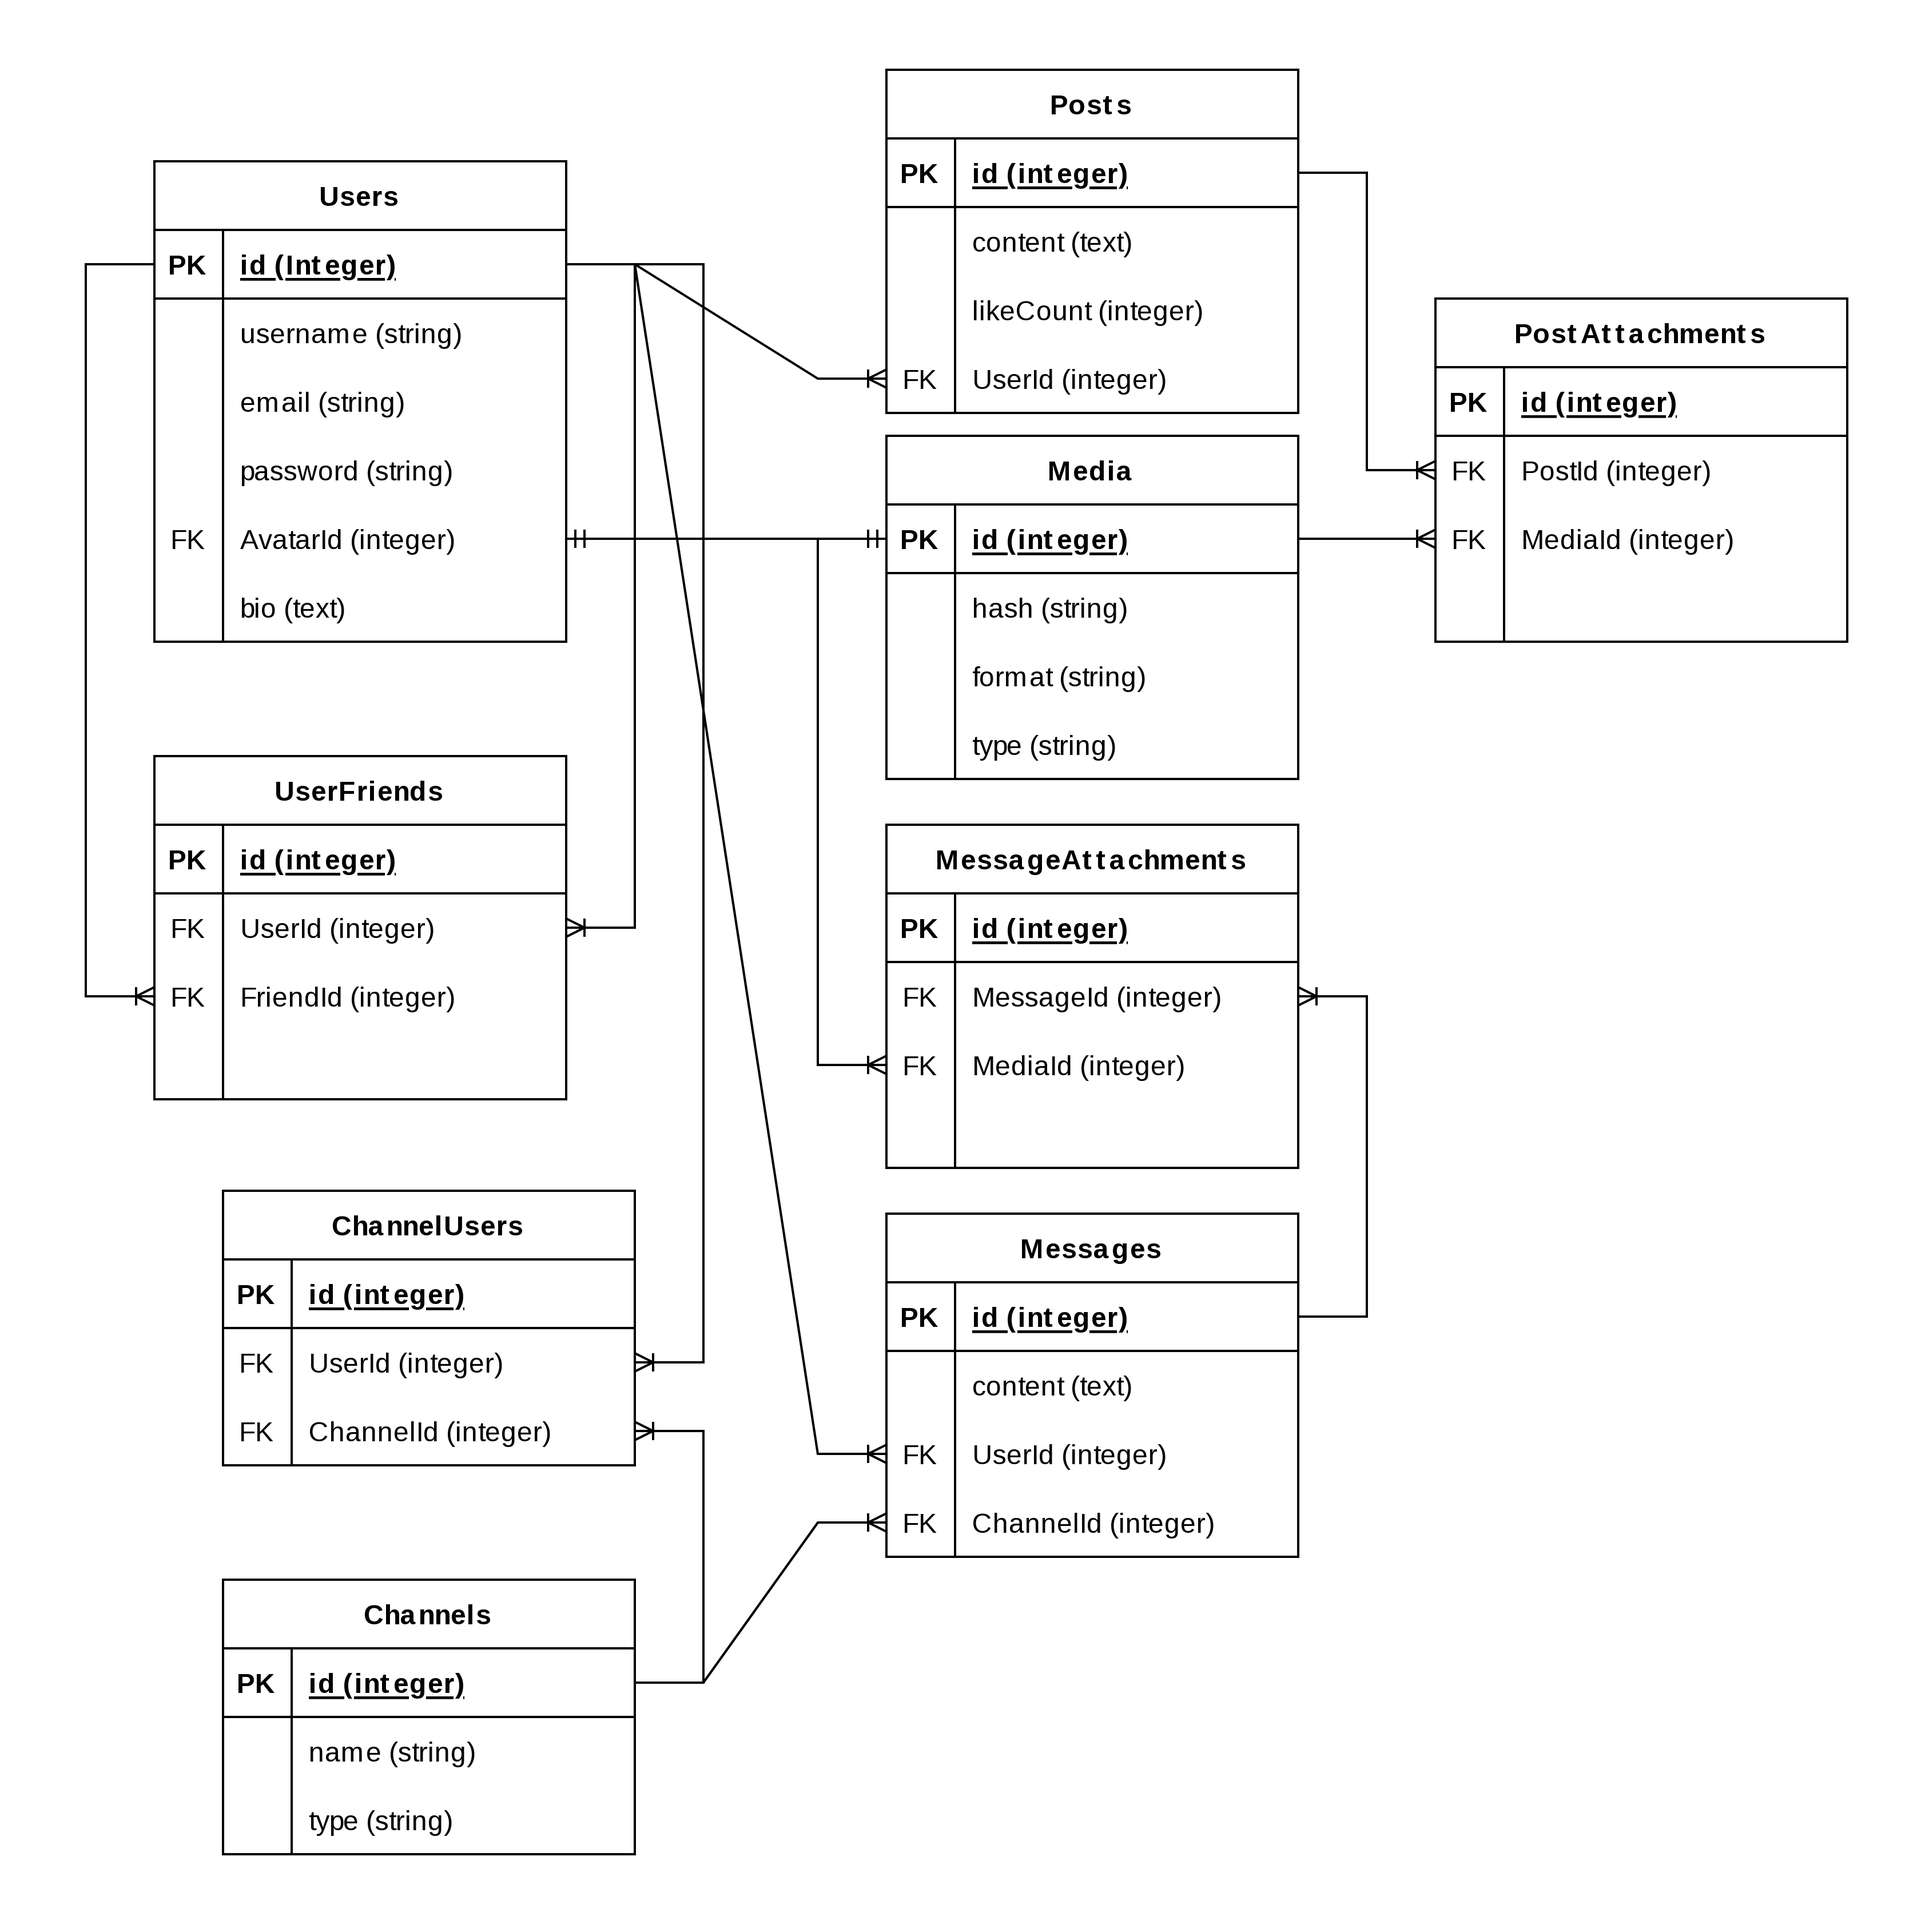
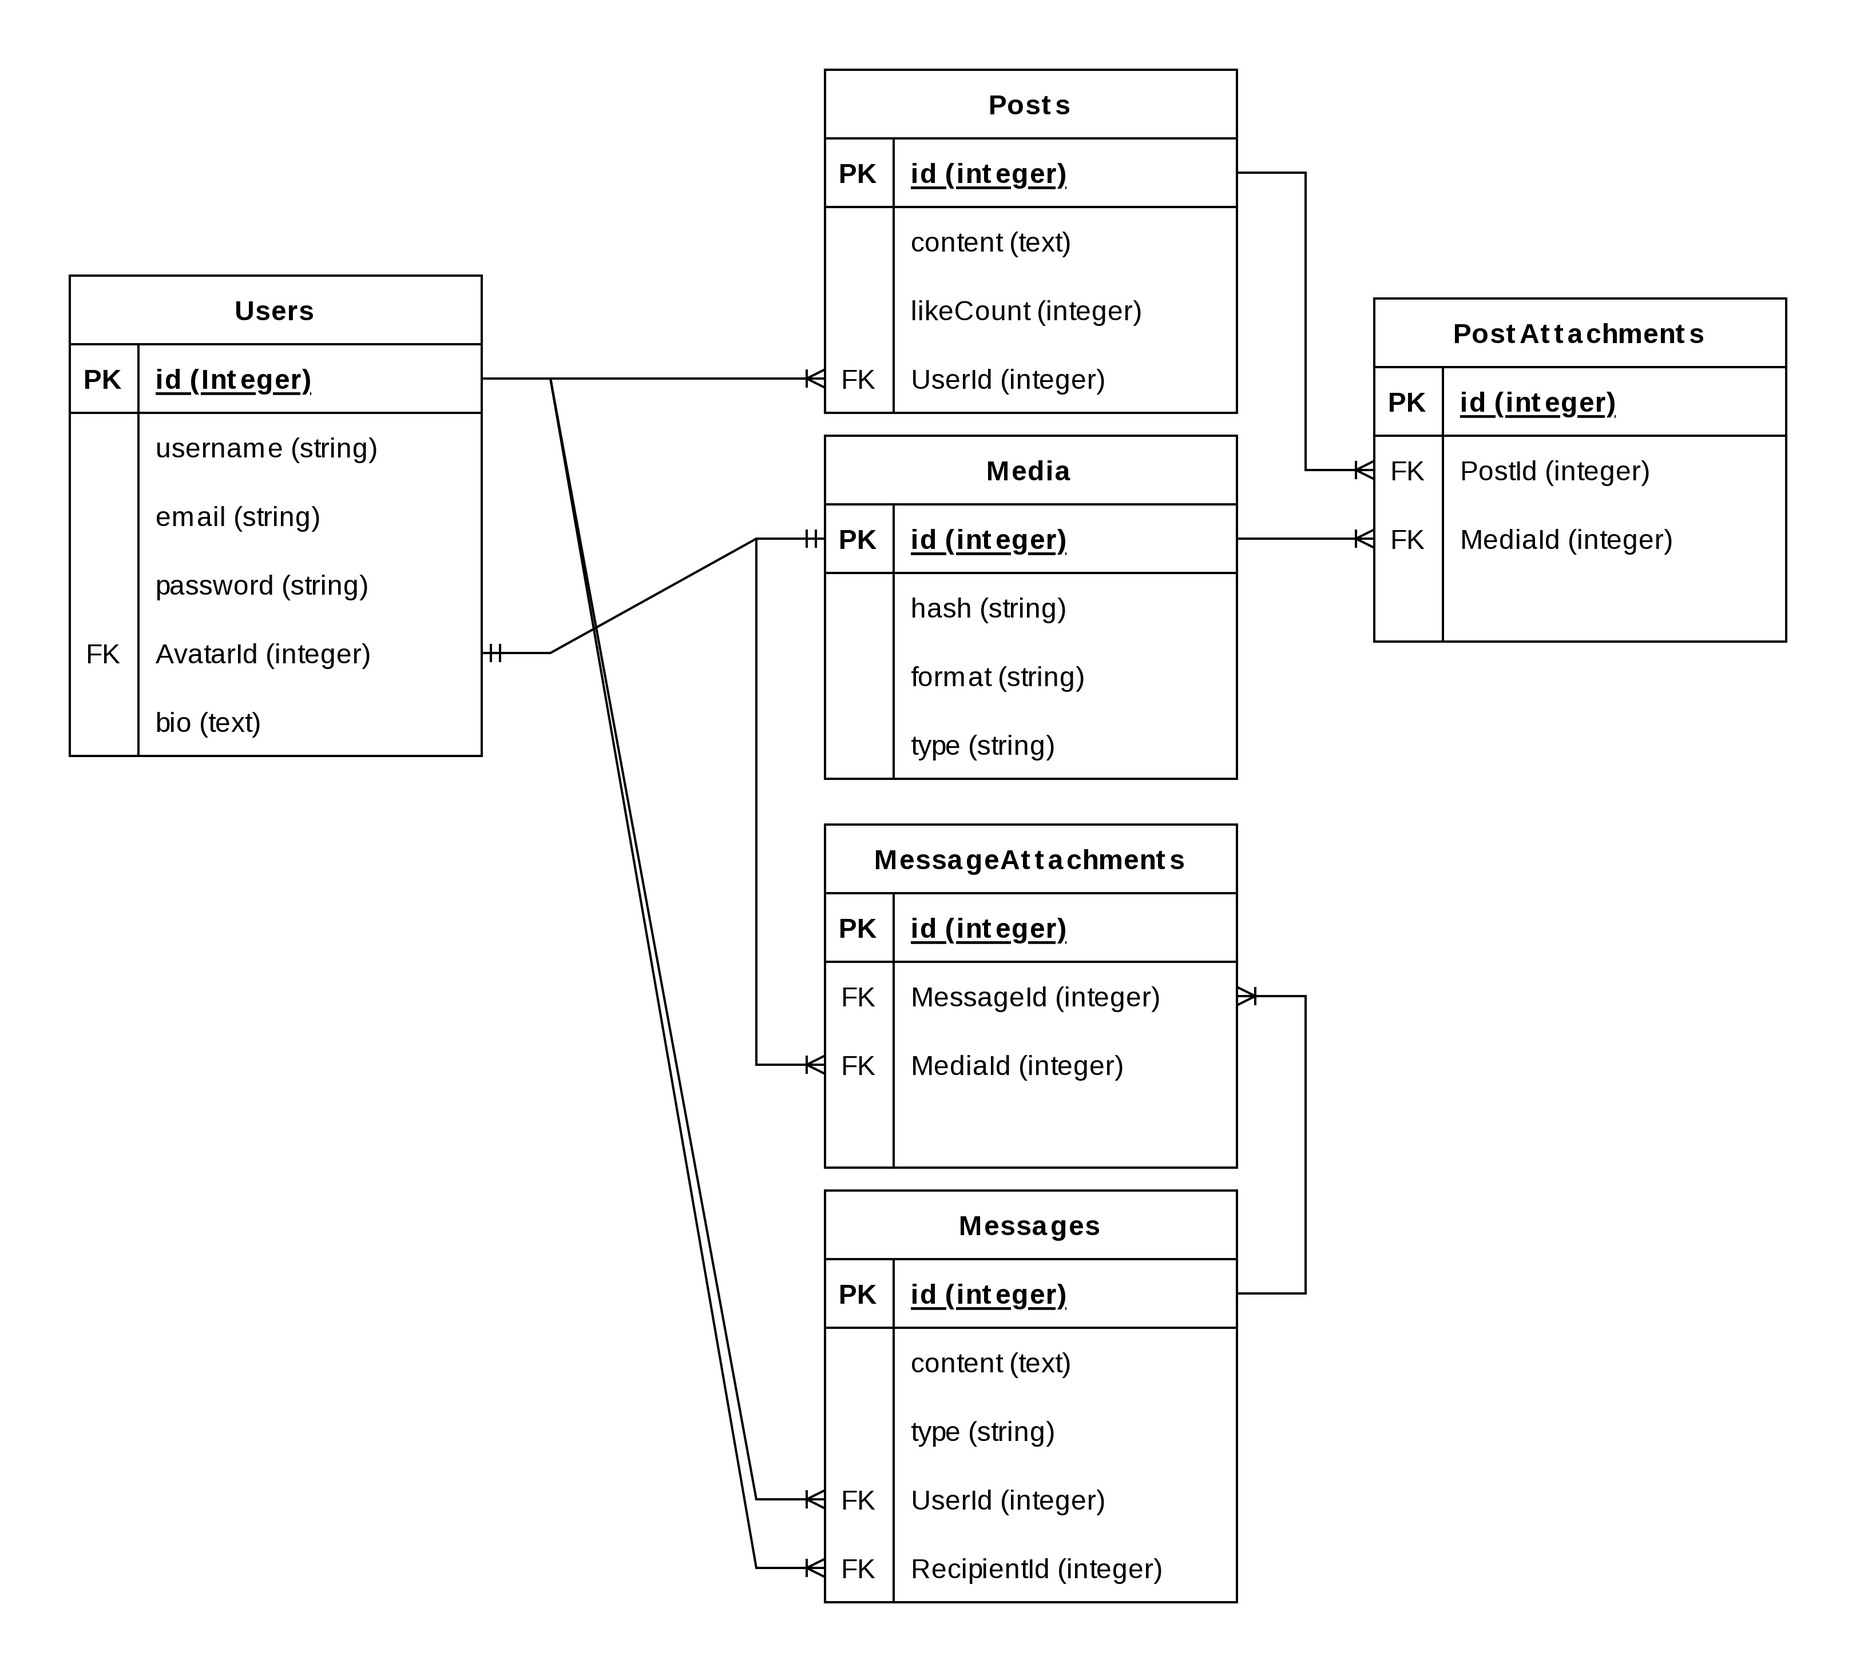
refactor database tables

diff --git a/rest/routes/router.js b/rest/routes/router.js
@@ -152,13 +152,6 @@ router.post('/avatars', upload.single('avatar'), async (req, res, next) => {
 
 router.post('/attachments', upload.single('attachment'), async (req, res, next) => {
   try {
-    const { filename, mimetype, fieldname } = req.file;
-
-    const media = await Media.create({
-      hash: filename,
-      type: fieldname,
-      format: mimetype,
-    });
 
     res.status(201).json(media);
   } catch (err) {
@@ -172,10 +165,47 @@ router.post("/chat/global", async (req, res, next) => {
       content,
     } = req.body;
 
+    let media;
     const data = {
       content,
       UserId: req.user.id,
       ChannelId: 1,
+    };
+
+    if (req.file) {
+      const { filename, mimetype, fieldname } = req.file;
+
+      media = await Media.create({
+	hash: filename,
+	type: fieldname,
+	format: mimetype,
+      });
+
+      data.AttachmentId = media.id;
+    }
+
+    const message = await Message.create(data);
+
+    if (media) data.Attachment = media;
+    // post ws
+    const res = await sendGlobal(data);
+
+    res.status(201).json(message);
+  } catch (err) {
+    next(err);
+  }
+});
+
+router.post("/chat/:id", async (req, res, next) => {
+  let data;
+  try {
+    const {
+      content,
+    } = req.body;
+
+    data = {
+      content,
+      UserId: req.user.id,
     };
 
     data.createdAt = data.updatedAt = new Date();
@@ -187,15 +217,14 @@ router.post("/chat/global", async (req, res, next) => {
 
     res.status(201).json(message);
   } catch (err) {
+    if (err.response.data.message === "Unknown/offline recipient") {
+      const message = await Message.create(data);
+
+      res.status(201).json(message);
+      return res.status(201).json(message);
+    }
     next(err);
   }
-});
-
-router.post("/chat/:id", (req, res, next) => {
-
-if (err.response.data.message === "Unknown/offline recipient") {
-  return res.status(200).json(message);
-}
 });
 
 // error handler

diff --git a/rest/models/message.js b/rest/models/message.js
@@ -17,10 +17,12 @@ module.exports = (sequelize, DataTypes) => {
 
       Message.belongsTo(models.User, {
 	foreignKey: "UserId",
+	as: "users",
       });
 
-      Message.belongsTo(models.Channel, {
-	foreignKey: "ChannelId",
+      Message.belongsTo(models.User, {
+	foreignKey: "RecipientId",
+	as: "recipients",
       });
     }
   }
@@ -37,6 +39,10 @@ module.exports = (sequelize, DataTypes) => {
 	},
       }
     },
+    type: {
+      type: DataTypes.STRING,
+      allowNull: false,
+    },
     UserId: {
       type: DataTypes.INTEGER,
       allowNull: false,
@@ -45,11 +51,11 @@ module.exports = (sequelize, DataTypes) => {
 	key: "id",
       },
     },
-    ChannelId: {
+    RecipientId: {
       type: DataTypes.INTEGER,
       allowNull: false,
       references: {
-	model: "Channels",
+	model: "Users",
 	key: "id",
       },
     },

diff --git a/rest/models/user.js b/rest/models/user.js
@@ -22,22 +22,14 @@ module.exports = (sequelize, DataTypes) => {
 	foreignKey: "UserId",
       });
 
-      User.hasMany(models.UserFriend, {
+      User.hasMany(models.Message, {
 	foreignKey: "UserId",
 	as: "users",
       });
 
-      User.hasMany(models.UserFriend, {
-	foreignKey: "FriendId",
-	as: "friends",
-      });
-
-      User.hasMany(models.ChannelUser, {
-	foreignKey: "UserId",
-      });
-
       User.hasMany(models.Message, {
-	foreignKey: "UserId",
+	foreignKey: "RecipientId",
+	as: "recipients",
       });
     }
   }

diff --git a/rest/migrations/20221206050933-create-message.js b/rest/migrations/20221206050933-create-message.js
@@ -13,6 +13,10 @@ module.exports = {
         type: Sequelize.TEXT,
 	allowNull: false,
       },
+      type: {
+        type: Sequelize.STRING,
+	allowNull: false,
+      },
       UserId: {
         type: Sequelize.INTEGER,
 	allowNull: false,
@@ -21,11 +25,11 @@ module.exports = {
 	  key: "id",
 	},
       },
-      ChannelId: {
+      RecipientId: {
         type: Sequelize.INTEGER,
 	allowNull: false,
 	references: {
-	  model: "Channels",
+	  model: "Users",
 	  key: "id",
 	},
       },
